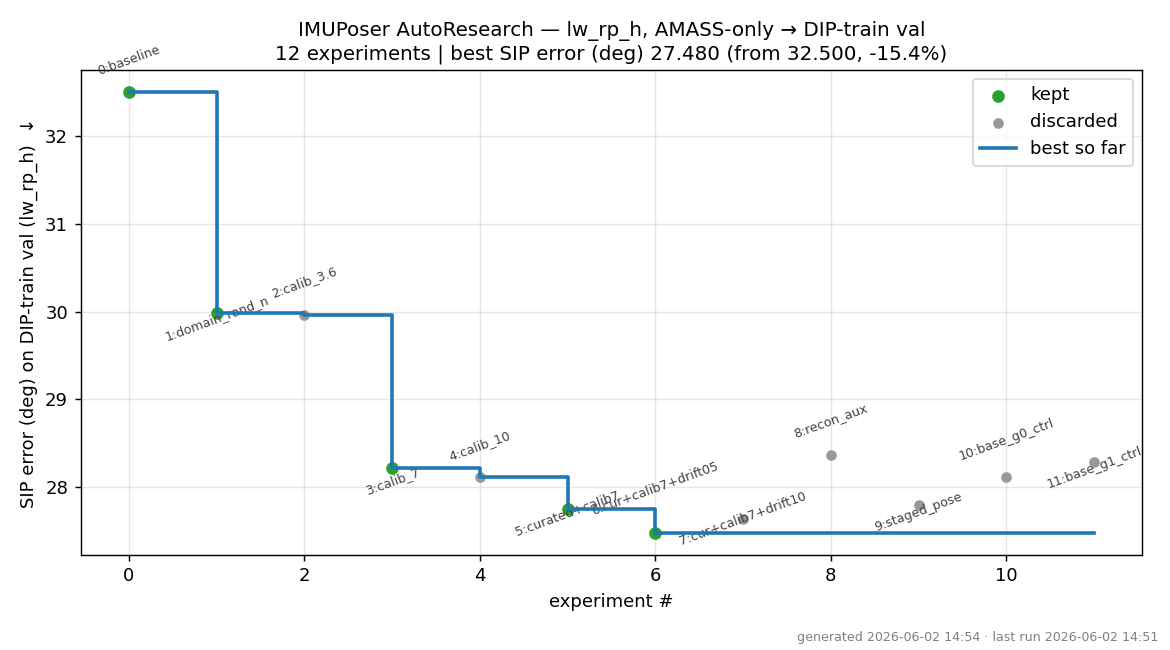
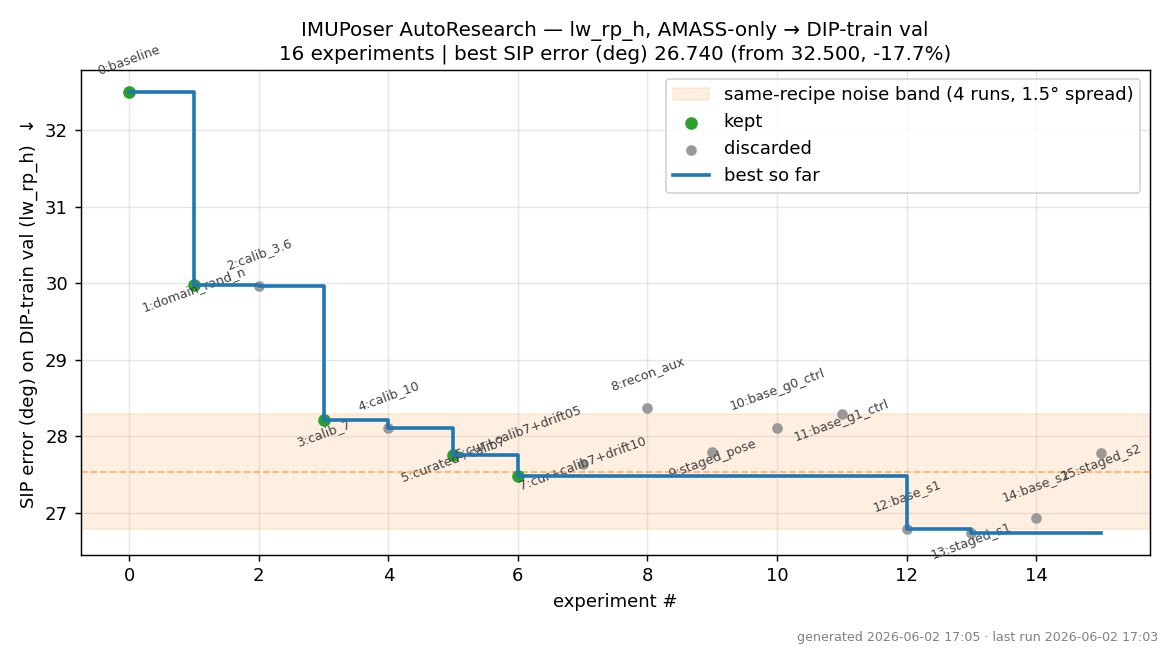
ar exp12-15: seed-replication refutes staged win; true noise floor is ~1.5deg, not 0.5
Re-ran the identical best recipe across seeds (GPU-matched baseline->staged chains, seeds 1 & 2):

- Staged-vs-baseline ΔSIP = {-0.49 (seed42), -0.05 (seed1), +0.85 (seed2)} -> mean ~0. The seed-42
  -0.49 was noise; staged prediction does NOT reliably help. Recon already showed no gain (exp8).
- KEY correction: the same recipe gives SIP 26.79/26.93/28.11/28.29 across seeds -- a ~1.5deg spread,
  3x the previously-assumed 0.5deg "floor". Sources: random seed + non-deterministic CuDNN
  bidirectional-LSTM backward (trainer runs deterministic="warn"). All earlier sub-1deg "wins"
  (curation, drift, staged) are within this floor and NOT established; exp6's 27.48 was a lucky run.
- Only calibration-error augmentation (-4.3deg) clears the noise floor and is a real lever.

plot_progress.py: added a same-recipe noise band (spread of the repeated baselines) so the graph
shows that post-calibration "progress" is inside the noise. Added SEED env earlier for this.

diff --git a/autoresearch/plot_progress.py b/autoresearch/plot_progress.py
@@ -56,6 +56,15 @@ def main():
         best.append(cur)
 
     fig, ax = plt.subplots(figsize=(9, 5))
+    # NOISE BAND: identical best-recipe GlobalModel baselines re-run across seeds/GPUs (name "base*").
+    # Their spread IS the empirical run-to-run noise floor (~1.5° SIP, from seed + non-deterministic
+    # CuDNN bidirectional-LSTM backward). Anything inside this band is indistinguishable from noise.
+    base_y = [metric(r) for r in rows if r.get("name", "").startswith("base_")]
+    if len(base_y) >= 2:
+        lo, hi = min(base_y), max(base_y)
+        ax.axhspan(lo, hi, color="tab:orange", alpha=0.12, zorder=0,
+                   label=f"same-recipe noise band ({len(base_y)} runs, {hi - lo:.1f}° spread)")
+        ax.axhline(sum(base_y) / len(base_y), color="tab:orange", alpha=0.55, lw=1, ls="--", zorder=1)
     # each experiment: green if kept (new best / accepted), gray if discarded
     ax.scatter([xi for xi, k in zip(x, kept) if k], [yi for yi, k in zip(y, kept) if k],
                c="tab:green", s=36, zorder=3, label="kept")

diff --git a/ADDITIONAL_EXPERIMENTS.md b/ADDITIONAL_EXPERIMENTS.md
@@ -187,10 +187,16 @@ Key findings:
 
 - **Confirmed lever: GlobalPose-style calibration/mounting rotation error → −4.3° SIP** (32.5 → 28.2).
   Far above noise; the model was overfitting to *perfect* synthetic orientation. Magnitude saturates ~7–10°.
-- **Noise floor ≈ 0.5°**, and **GPU-dependent**: same GPU+seed is bit-identical, but GPU0 vs GPU1 differs ~0.44°.
-  => compare experiments on the SAME gpu (or seed-average); treat sub-0.5° diffs as noise.
-- Curation (DIP-relevant datasets) and orientation drift each looked like ~0.3° gains but are within
-  noise + GPU-confounded — NOT established. Input-augmentation realism plateaus ~27.5°.
+- **Noise floor ≈ 1.5° SIP (CORRECTED — was thought to be ~0.5°).** The earlier 0.5° estimate only
+  measured GPU0-vs-GPU1 at a fixed seed. Re-running the *identical* best recipe across seeds gives SIP
+  **26.79 / 26.93 / 28.11 / 28.29 — a 1.5° spread** (exp10/11/12/14). Two sources: (1) the random seed,
+  and (2) the **non-deterministic CuDNN bidirectional-LSTM backward** (trainer runs `deterministic="warn"`,
+  so the LSTM backward is not reproducible even at fixed seed+GPU). => treat **sub-~1.5° diffs as noise**;
+  to claim a win, **seed-replicate** (≥2–3 seeds) and compare distributions, not single runs.
+- Curation (DIP-relevant datasets) and orientation drift each looked like ~0.3° gains — **within the
+  ~1.5° noise floor, NOT established.** Likewise the apparent "27.48 best" (exp6) was a lucky single run;
+  the same recipe reaches anywhere in 26.8–28.3 depending on seed. Input-augmentation realism plateaus
+  ~27–28° and the only robust lever remains calibration error.
 - Key protocol fix: select on SIP-on-val (MSE val loss is anti-correlated with SIP over training); use
   fixed-epoch final model. SIP-on-val tracks DIP-test only coarsely (~+2-3° offset).
 
@@ -208,8 +214,18 @@ unsafe — our fresh baselines land at 28.1–28.3, not exp6's recorded 27.48).
 - **Missing-IMU reconstruction does NOT help** (+0.26° SIP, worse on every metric). Reconstructing the 2
   absent sensors from the 3 present ones injects error that propagates into the pose head; the auxiliary
   target adds no signal the pose head wasn't already extracting.
-- **Staged prediction (IMU→joints→pose) gives a small, consistent gain**: −0.49° SIP and ALSO better on
-  Angle (−0.79°), Vertex (−0.55 cm), Joint (−0.26 cm) — 4/5 metrics better, LocalAngle flat. SIP alone is
-  at the noise floor, but multi-metric consistency argues it's a real (if small) effect. Intermediate
-  joint-position supervision gives the LSTM an easier geometric subproblem before the rotation regression.
-- **Seed-replication (exp12–15)** of staged-vs-baseline on two fresh seeds confirms/refutes the −0.5°.
+- **Staged prediction (IMU→joints→pose): NOT confirmed.** Looked like a −0.49° win at seed 42, but
+  seed-replication (exp12–15, GPU-matched baseline→staged pairs) shows the staged−baseline ΔSIP is
+  **{−0.49 (seed42), −0.05 (seed1), +0.85 (seed2)} → mean ≈ +0.1° ≈ 0** with a ~0.7° spread. The seed-42
+  signal was noise. Intermediate joint-position supervision does not reliably help this model/sensor set.
+
+  | seed | baseline SIP | staged SIP | Δ |
+  |---|---|---|---|
+  | 42 | 28.29 (exp11) | 27.80 (exp9) | −0.49 |
+  | 1  | 26.79 (exp12) | 26.74 (exp13) | −0.05 |
+  | 2  | 26.93 (exp14) | 27.78 (exp15) | +0.85 |
+
+**Net (exp8–15):** neither architecture beats the plain LSTM once you control for the true ~1.5° noise
+floor. The decisive methodological lesson is that **single-run comparisons below ~1.5° are unreliable
+here** — the field's habit of reporting one run hides this. Calibration-error augmentation (−4.3°) remains
+the only established lever; further gains likely need a different data/realism axis, not architecture.
